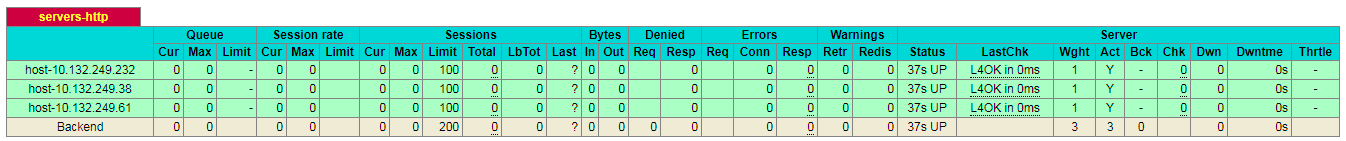
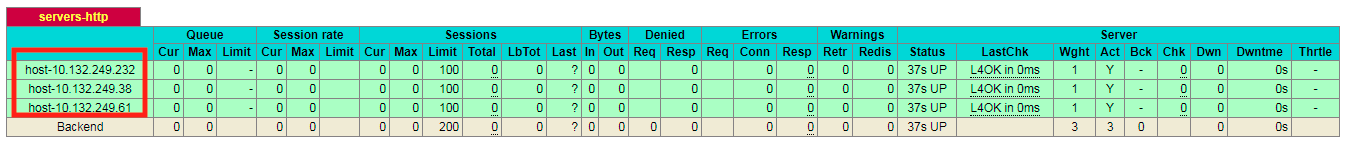
mark pictures in lamp lab

Changed region(s): [[0.0, 0.3121, 0.1248, 0.8511], [0.0312, 0.0851, 0.0936, 0.1418]]

diff --git a/lamp/lamp.rst b/lamp/lamp.rst
@@ -44,7 +44,7 @@ Create LAMP
 
 - open **service** tab of this launch
 
-    - haproxy, it is an entry for this application, record it's **ip address**
+    - haproxy, it is an entry for this application, record it's **ip address**, we will use it later.
 
         .. figure:: images/5.png
 
@@ -56,11 +56,11 @@ Create LAMP
 Access haproxy stat page
 ++++++++++++++++++++++++
 
-- open browser, and access ``http://<hapryxo_ip_address>:8080/stats``
+- open browser, and access ``http://<hapryxo_ip_address>:8080/stats``, put the haproxy ip address here.
 
     .. figure:: images/7.png
 
-    - you could find the http ip address in the buttom of the page 
+    - you could find the apache ip addresses in the buttom of the page 
 
 
 Scale Out apache node 
